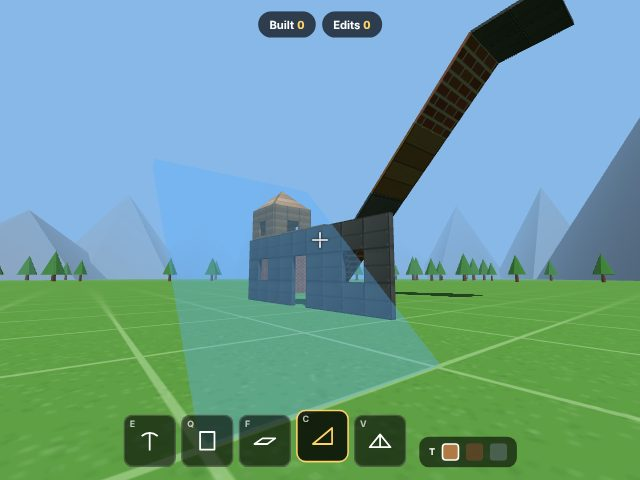
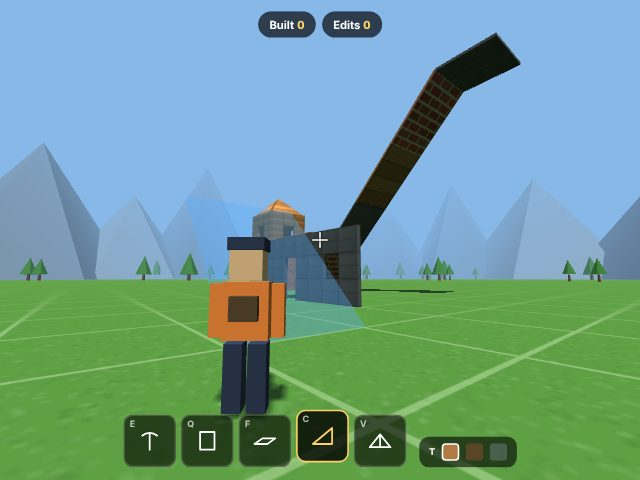
Build Rush: third-person camera, settings for sensitivity, FOV and keybinds
Claude-Session: https://claude.ai/code/session_01UAVtk7iSSEZ9gFYdBtuA74

diff --git a/games/build-rush/index.html b/games/build-rush/index.html
@@ -45,6 +45,16 @@
   .btn.ghost { background: #ffffff1c; color: #fff; }
   .big { font-size: 54px; font-weight: 800; margin: 8px 0; }
   #touchNote { color: #ff9f8a; margin-top: 14px; }
+  .set { display: grid; grid-template-columns: repeat(auto-fit, minmax(220px, 1fr)); gap: 12px 20px; text-align: left; margin: 10px 0 18px; }
+  .set label { display: flex; align-items: center; gap: 10px; color: #c8d0e6; white-space: nowrap; }
+  .set input[type=range] { flex: 1; accent-color: #ffd166; }
+  .set output { min-width: 38px; color: #ffd166; font-variant-numeric: tabular-nums; }
+  .set select { font: inherit; background: #ffffff1c; color: #fff; border: 0; border-radius: 8px; padding: 6px 8px; }
+  .set select option { color: #000; }
+  .box h3 { text-align: left; margin: 8px 0; } .box h3 small { color: #8a94b0; font-weight: 500; }
+  .binds { display: grid; grid-template-columns: repeat(auto-fill, minmax(200px, 1fr)); gap: 6px; margin-bottom: 14px; }
+  .bind { display: flex; justify-content: space-between; align-items: center; background: #ffffff10; border: 2px solid transparent; border-radius: 10px; padding: 8px 10px; color: #dde3f3; font: 600 13px Inter, sans-serif; cursor: pointer; }
+  .bind:hover { border-color: #ffffff40; } .bind.wait { border-color: #ffd166; } .bind kbd { min-width: 28px; text-align: center; }
 </style>
 </head>
 <body>
@@ -53,12 +63,12 @@
 <div id="hint"></div>
 <div id="flash"></div>
 <div id="hot">
-  <div class="slot" data-t="pick"><small>E</small><svg viewBox="0 0 32 32"><path d="M6 10 Q16 2 26 10 M16 7 V28"/></svg></div>
-  <div class="slot" data-t="wall"><small>Q</small><svg viewBox="0 0 32 32"><rect x="7" y="5" width="18" height="22"/></svg></div>
-  <div class="slot" data-t="floor"><small>F</small><svg viewBox="0 0 32 32"><path d="M3 20 L13 13 H29 L19 20 Z"/></svg></div>
-  <div class="slot" data-t="ramp"><small>C</small><svg viewBox="0 0 32 32"><path d="M4 26 H28 V6 Z"/></svg></div>
-  <div class="slot" data-t="cone"><small>V</small><svg viewBox="0 0 32 32"><path d="M3 24 L16 8 L29 24 Z M16 8 V24"/></svg></div>
-  <div id="mat"><small>T</small><i style="background:#b07a45"></i><i style="background:#b5523b"></i><i style="background:#8d99a8"></i></div>
+  <div class="slot" data-t="pick"><small data-a="pick">E</small><svg viewBox="0 0 32 32"><path d="M6 10 Q16 2 26 10 M16 7 V28"/></svg></div>
+  <div class="slot" data-t="wall"><small data-a="wall">Q</small><svg viewBox="0 0 32 32"><rect x="7" y="5" width="18" height="22"/></svg></div>
+  <div class="slot" data-t="floor"><small data-a="floor">F</small><svg viewBox="0 0 32 32"><path d="M3 20 L13 13 H29 L19 20 Z"/></svg></div>
+  <div class="slot" data-t="ramp"><small data-a="ramp">C</small><svg viewBox="0 0 32 32"><path d="M4 26 H28 V6 Z"/></svg></div>
+  <div class="slot" data-t="cone"><small data-a="cone">V</small><svg viewBox="0 0 32 32"><path d="M3 24 L16 8 L29 24 Z M16 8 V24"/></svg></div>
+  <div id="mat"><small data-a="mat">T</small><i style="background:#b07a45"></i><i style="background:#b5523b"></i><i style="background:#8d99a8"></i></div>
 </div>
 
 <div class="ov" id="menu"><div class="box">
@@ -69,20 +79,27 @@
     <button class="mode" data-m="climb"><b>🚀 Climb</b><span>Reach the ring 10 floors up. Ramp rush as fast as you can.</span><em id="bestClimb"></em></button>
     <button class="mode" data-m="drill"><b>✂ Edit Drill</b><span>Copy the glowing edit on your walls. 60 seconds.</span><em id="bestDrill"></em></button>
   </div>
-  <div class="keys">
-    <div><kbd>WASD</kbd>move <kbd>Space</kbd>jump <kbd>Shift</kbd>sprint</div>
-    <div><kbd>Q</kbd>wall <kbd>F</kbd>floor <kbd>C</kbd>ramp <kbd>V</kbd>cone</div>
-    <div><kbd>Click</kbd>build (hold to spam) <kbd>T</kbd>material</div>
-    <div><kbd>G</kbd>edit · drag tiles · release to confirm</div>
-    <div><kbd>Right-click</kbd>reset edit <kbd>E</kbd>pickaxe</div>
-    <div><kbd>Esc</kbd>pause / menu</div>
-  </div>
+  <div class="keys" id="keyList"></div>
+  <button class="btn ghost" id="openSet1" style="margin-top:16px">⚙ Settings</button>
   <div id="touchNote" hidden>Needs a keyboard and mouse.</div>
 </div></div>
 <div class="ov" id="pause" hidden><div class="box"><h1>Paused</h1><div class="sub" id="pauseSub"></div>
-  <button class="btn" id="resume">Resume</button><button class="btn ghost" id="restart">Restart</button><button class="btn ghost" id="toMenu">Menu</button></div></div>
+  <button class="btn" id="resume">Resume</button><button class="btn ghost" id="restart">Restart</button><button class="btn ghost" id="openSet2">⚙ Settings</button><button class="btn ghost" id="toMenu">Menu</button></div></div>
 <div class="ov" id="done" hidden><div class="box"><div class="sub" id="doneT"></div><div class="big" id="doneV"></div><div class="sub" id="doneS"></div>
   <button class="btn" id="again">Play again</button><button class="btn ghost" id="toMenu2">Menu</button></div></div>
+
+<div class="ov" id="settings" hidden><div class="box">
+  <h1 style="font-size:44px">Settings</h1>
+  <div class="set">
+    <label>Sensitivity <input type="range" id="sSens" min="0.1" max="3" step="0.05"><output id="oSens"></output></label>
+    <label>Field of view <input type="range" id="sFov" min="60" max="110" step="1"><output id="oFov"></output></label>
+    <label>Camera <select id="sCam"><option value="tp">Third person</option><option value="fp">First person</option></select></label>
+    <label><input type="checkbox" id="sInv"> Invert mouse Y</label>
+  </div>
+  <h3>Keybinds <small>click one, then press a key or mouse button 3–5 · Esc cancels</small></h3>
+  <div class="binds" id="binds"></div>
+  <button class="btn ghost" id="resetBinds">Reset keys</button><button class="btn" id="setDone">Done</button>
+</div></div>
 
 <script src="https://cdnjs.cloudflare.com/ajax/libs/three.js/r128/three.min.js"></script>
 <script>
@@ -199,6 +216,37 @@ function rebuild(p) { root.remove(p.mesh); p.boxes = boxesOf(p); p.mesh = buildM
 function removePiece(p) { root.remove(p.mesh); pieces.delete(p.key); }
 function clearAll() { for (const p of [...pieces.values()]) removePiece(p); }
 
+// ---------- settings & keybinds (saved in localStorage) ----------
+const ACTIONS = { forward: ["Move forward", "KeyW"], back: ["Move back", "KeyS"], left: ["Move left", "KeyA"], right: ["Move right", "KeyD"], jump: ["Jump", "Space"], sprint: ["Sprint", "ShiftLeft"],
+  wall: ["Wall", "KeyQ"], floor: ["Floor", "KeyF"], ramp: ["Ramp", "KeyC"], cone: ["Cone", "KeyV"], pick: ["Pickaxe", "KeyE"], edit: ["Edit", "KeyG"], mat: ["Material", "KeyT"], cam: ["Switch camera", "KeyP"] };
+const SET = { sens: 1, fov: 78, cam: "tp", inv: false, bind: {} };
+try { Object.assign(SET, JSON.parse(store("brSet") || "{}")); } catch {}
+const saveSet = () => store("brSet", JSON.stringify(SET));
+const bind = a => SET.bind[a] || ACTIONS[a][1];
+const held = a => !!keys[bind(a)];
+const keyName = c => ({ Space: "Space", ShiftLeft: "Shift", ShiftRight: "R-Shift", ControlLeft: "Ctrl", AltLeft: "Alt", Tab: "Tab", CapsLock: "Caps", Mouse1: "Mouse 3", Mouse3: "Mouse 4", Mouse4: "Mouse 5", ArrowUp: "↑", ArrowDown: "↓", ArrowLeft: "←", ArrowRight: "→" })[c] || c.replace(/^Key|^Digit|^Numpad/, "");
+let capturing = null, setFrom = "menu";
+function setBind(a, code) {
+  for (const k in ACTIONS) if (k !== a && bind(k) === code) SET.bind[k] = bind(a); // swap instead of leaving a duplicate
+  SET.bind[a] = code; saveSet(); labels();
+}
+function labels() {
+  const k = a => keyName(bind(a));
+  document.querySelectorAll("small[data-a]").forEach(e => e.textContent = k(e.dataset.a));
+  $("keyList").innerHTML = [`<kbd>${k("forward")}${k("left")}${k("back")}${k("right")}</kbd>move <kbd>${k("jump")}</kbd>jump <kbd>${k("sprint")}</kbd>sprint`,
+    `<kbd>${k("wall")}</kbd>wall <kbd>${k("floor")}</kbd>floor <kbd>${k("ramp")}</kbd>ramp <kbd>${k("cone")}</kbd>cone`,
+    `<kbd>Click</kbd>build (hold to spam) <kbd>${k("mat")}</kbd>material`, `<kbd>${k("edit")}</kbd>edit · drag tiles · release to confirm`,
+    `<kbd>Right-click</kbd>reset edit <kbd>${k("pick")}</kbd>pickaxe`, `<kbd>${k("cam")}</kbd>1st / 3rd person <kbd>Esc</kbd>pause`].map(x => `<div>${x}</div>`).join("");
+  $("binds").innerHTML = Object.entries(ACTIONS).map(([a, [n]]) => `<button class="bind ${capturing === a ? "wait" : ""}" data-a="${a}"><span>${n}</span><kbd>${capturing === a ? "…" : k(a)}</kbd></button>`).join("");
+  hint();
+}
+function applySet() {
+  camera.fov = SET.fov; camera.updateProjectionMatrix();
+  $("sSens").value = SET.sens; $("oSens").textContent = (+SET.sens).toFixed(2); $("sFov").value = SET.fov; $("oFov").textContent = SET.fov;
+  $("sCam").value = SET.cam; $("sInv").checked = SET.inv;
+}
+function openSettings(from) { setFrom = from; $(from).hidden = true; $("settings").hidden = false; applySet(); labels(); }
+
 // ---------- player ----------
 const P = { x: 2, y: 0, z: 2, vy: 0, yaw: -Math.PI / 2, pitch: 0, ground: true }, EYE = 1.6, HEAD = 1.75, R = .32;
 const keys = {};
@@ -225,11 +273,11 @@ function ceilingAt(x, y, z) {
   return c;
 }
 function physics(dt) {
-  const f = (keys.KeyW ? 1 : 0) - (keys.KeyS ? 1 : 0), s = (keys.KeyD ? 1 : 0) - (keys.KeyA ? 1 : 0);
-  const sp = keys.ShiftLeft || keys.ShiftRight ? 8.5 : 6, sy = Math.sin(P.yaw), cy = Math.cos(P.yaw);
+  const f = held("forward") - held("back"), s = held("right") - held("left");
+  const sp = held("sprint") ? 8.5 : 6, sy = Math.sin(P.yaw), cy = Math.cos(P.yaw);
   let mx = (-sy * f + cy * s), mz = (-cy * f - sy * s); const ml = Math.hypot(mx, mz) || 1;
   mx = mx / ml * sp * (f || s ? 1 : 0); mz = mz / ml * sp * (f || s ? 1 : 0);
-  if (keys.Space && P.ground) { P.vy = 8.2; P.ground = false; }
+  if (held("jump") && P.ground) { P.vy = 8.2; P.ground = false; }
   const steps = 4, h = dt / steps;
   for (let i = 0; i < steps; i++) {
     for (const [ax, d] of [["x", mx * h], ["z", mz * h]]) {
@@ -313,7 +361,7 @@ function tileSlots(p) { // [geometry, x, y, z, idx] in the piece's mesh space
   return [];
 }
 function startEdit() {
-  ray.setFromCamera(center, camera); ray.far = 7;
+  ray.setFromCamera(center, camera); ray.far = 7 + camDist;
   const hit = ray.intersectObjects(root.children.filter(o => o !== ghost && o !== drill?.mark), true)[0];
   const p = hit?.object.userData.piece;
   if (!p || p.kind === "cone") return;
@@ -326,7 +374,7 @@ function startEdit() {
   sfx(660, .05); hint();
 }
 function editHit() {
-  ray.setFromCamera(center, camera); ray.far = 9;
+  ray.setFromCamera(center, camera); ray.far = 9 + camDist;
   return ray.intersectObjects(editing.tiles)[0]?.object;
 }
 function paintTile() {
@@ -425,7 +473,7 @@ function finish(title, value, sub) {
 function modeTick(dt) {
   const top = [];
   if (mode === "climb") {
-    if (!running && (keys.KeyW || keys.KeyA || keys.KeyS || keys.KeyD)) running = true;
+    if (!running && (held("forward") || held("back") || held("left") || held("right"))) running = true;
     if (running) clock += dt;
     ring.children[0].rotation.y += dt * 1.5;
     top.push(`⏱ <b>${clock.toFixed(2)}s</b>`, `Height <b>${Math.floor(P.y / C)}</b>/10`);
@@ -444,8 +492,9 @@ function modeTick(dt) {
   if ($("top").innerHTML !== html) $("top").innerHTML = html;
 }
 function hint() {
-  $("hint").textContent = editing ? "EDIT · click/drag tiles · release to confirm · right-click reset · G cancel"
-    : mode === "drill" ? "Aim at the glowing wall, press G, drag over the glowing tiles" : mode === "climb" ? "Hold click with the ramp (C) and run forward. Walls (Q) help." : "";
+  const k = a => keyName(bind(a));
+  $("hint").textContent = editing ? `EDIT · click/drag tiles · release to confirm · right-click reset · ${k("edit")} cancel`
+    : mode === "drill" ? `Aim at the glowing wall, press ${k("edit")}, drag over the glowing tiles` : mode === "climb" ? `Hold click with the ramp (${k("ramp")}) and run forward. Walls (${k("wall")}) help.` : "";
 }
 function setTool(t) { tool = t; document.querySelectorAll(".slot").forEach(s => s.classList.toggle("on", s.dataset.t === t)); if (editing) endEdit(); sfx(440, .03); }
 function setMat(m) { mat = m; document.querySelectorAll("#mat i").forEach((e, i) => e.classList.toggle("on", i === m)); }
@@ -458,34 +507,49 @@ document.addEventListener("pointerlockchange", () => {
 });
 addEventListener("mousemove", e => {
   if (!locked()) return;
-  P.yaw -= e.movementX * .0022; P.pitch = Math.max(-1.5, Math.min(1.5, P.pitch - e.movementY * .0022));
+  const sens = .0022 * SET.sens; P.yaw -= e.movementX * sens; P.pitch = Math.max(-1.5, Math.min(1.5, P.pitch - e.movementY * sens * (SET.inv ? -1 : 1)));
   if (editing && holding) paintTile();
 });
 addEventListener("mousedown", e => {
   if (!locked()) return;
   if (e.button === 2) { if (editing) resetEdit(); return; }
-  if (e.button !== 0) return;
+  if (e.button !== 0) { keys["Mouse" + e.button] = true; return action("Mouse" + e.button); }
   holding = true;
   if (editing) { editing.paint = null; paintTile(); return; }
   if (tool === "pick") {
-    ray.setFromCamera(center, camera); ray.far = 6;
+    ray.setFromCamera(center, camera); ray.far = 6 + camDist;
     const p = ray.intersectObjects(root.children.filter(o => o !== ghost && o !== drill?.mark), true)[0]?.object.userData.piece;
     if (p && mode !== "drill") { removePiece(p); burst(p.mesh.position.x, p.mesh.position.y, p.mesh.position.z, MAT_COL[p.mat], 16); sfx(120, .12, "sawtooth", .06); lastGhostKey = ""; }
     return;
   }
   place();
 });
-addEventListener("mouseup", e => { if (e.button !== 0) return; holding = false; if (editing && editing.paint !== null) confirmEdit(); });
+addEventListener("mouseup", e => { if (e.button !== 0) return void (keys["Mouse" + e.button] = false); holding = false; if (editing && editing.paint !== null) confirmEdit(); });
 addEventListener("contextmenu", e => e.preventDefault());
+function action(code) {
+  for (const t of ["wall", "floor", "ramp", "cone", "pick"]) if (code === bind(t)) setTool(t);
+  if (code === bind("mat")) setMat((mat + 1) % 3);
+  if (code === bind("edit")) editing ? endEdit() : startEdit();
+  if (code === bind("cam")) { SET.cam = SET.cam === "tp" ? "fp" : "tp"; saveSet(); }
+}
 addEventListener("keydown", e => {
   keys[e.code] = true;
   if (!locked()) return;
-  const map = { KeyQ: "wall", KeyF: "floor", KeyC: "ramp", KeyV: "cone", KeyE: "pick" };
-  if (map[e.code]) setTool(map[e.code]);
-  if (e.code === "KeyT") setMat((mat + 1) % 3);
-  if (e.code === "KeyG") editing ? endEdit() : startEdit();
-  if (e.code === "Space") e.preventDefault();
+  action(e.code);
+  if (e.code === "Space" || e.code === "Tab") e.preventDefault();
 });
+// rebinding: capture phase so the game never sees the key being assigned
+addEventListener("keydown", e => { if (!capturing) return; e.preventDefault(); e.stopImmediatePropagation(); if (e.code !== "Escape") setBind(capturing, e.code); capturing = null; labels(); }, true);
+addEventListener("mousedown", e => { if (!capturing || ![1, 3, 4].includes(e.button)) return; e.preventDefault(); setBind(capturing, "Mouse" + e.button); capturing = null; labels(); }, true);
+$("binds").onclick = e => { const b = e.target.closest(".bind"); if (b) { capturing = b.dataset.a; labels(); } };
+$("resetBinds").onclick = () => { SET.bind = {}; saveSet(); labels(); };
+$("sSens").oninput = e => { SET.sens = +e.target.value; saveSet(); applySet(); };
+$("sFov").oninput = e => { SET.fov = +e.target.value; saveSet(); applySet(); };
+$("sCam").onchange = e => { SET.cam = e.target.value; saveSet(); };
+$("sInv").onchange = e => { SET.inv = e.target.checked; saveSet(); };
+$("openSet1").onclick = () => openSettings("menu");
+$("openSet2").onclick = () => openSettings("pause");
+$("setDone").onclick = () => { capturing = null; $("settings").hidden = true; $(setFrom).hidden = false; };
 addEventListener("keyup", e => keys[e.code] = false);
 addEventListener("blur", () => { for (const k in keys) keys[k] = false; holding = false; });
 document.querySelectorAll(".mode").forEach(b => b.onclick = () => startMode(b.dataset.m));
@@ -500,6 +564,45 @@ function showMenu() {
 }
 if (matchMedia("(pointer: coarse)").matches) $("touchNote").hidden = false;
 
+// ---------- third-person character ----------
+const hero = new THREE.Group(), limb = {};
+{
+  const part = (w, h, d, c, x, y, z, pivotY) => { // limbs hang from a pivot so they can swing
+    const piv = new THREE.Group(); piv.position.set(x, pivotY ?? y, z);
+    const m = new THREE.Mesh(new THREE.BoxGeometry(w, h, d), new THREE.MeshStandardMaterial({ color: c, roughness: .8 }));
+    m.position.y = pivotY !== undefined ? y - pivotY : 0; m.castShadow = true; piv.add(m); hero.add(piv); return piv;
+  };
+  part(.5, .62, .3, 0xff8a3d, 0, 1.12, 0);                       // jacket
+  part(.36, .36, .34, 0xf0c49a, 0, 1.62, 0);                     // head
+  part(.4, .14, .4, 0x2d3a5a, 0, 1.84, 0);                       // cap
+  part(.26, .06, .18, 0x2d3a5a, 0, 1.79, -.24);                  // cap brim (faces forward = -z)
+  part(.3, .26, .1, 0x5a4630, 0, 1.15, .2);                      // backpack
+  limb.ll = part(.2, .7, .22, 0x2d3a5a, -.13, .42, 0, .8); limb.rl = part(.2, .7, .22, 0x2d3a5a, .13, .42, 0, .8);
+  limb.la = part(.14, .58, .16, 0xff8a3d, -.34, 1.12, 0, 1.38); limb.ra = part(.14, .58, .16, 0xff8a3d, .34, 1.12, 0, 1.38);
+  scene.add(hero);
+}
+let camDist = 0;
+const camRay = new THREE.Raycaster();
+function placeCamera(moving) {
+  const pivot = new V3(P.x, P.y + 1.55, P.z);
+  if (SET.cam === "fp") { camDist = 0; camera.position.set(P.x, P.y + EYE + (moving ? Math.sin(bob) * .05 : 0), P.z); return; }
+  const dir = look(), right = new V3(Math.cos(P.yaw), 0, -Math.sin(P.yaw));
+  const want = pivot.clone().addScaledVector(dir, -3.4).addScaledVector(right, .8).add(new V3(0, .35, 0));
+  const off = want.clone().sub(pivot), full = off.length();
+  camRay.set(pivot, off.normalize()); camRay.far = full;
+  const hit = camRay.intersectObjects(root.children.filter(o => o !== ghost && o !== drill?.mark), true)[0];
+  const d = hit ? Math.max(.4, hit.distance - .25) : full; // pull in when a build is behind you
+  camera.position.copy(pivot).addScaledVector(off, d); camera.position.y = Math.max(.3, camera.position.y);
+  camDist = d;
+}
+function animateHero(moving, dt) {
+  hero.visible = SET.cam === "tp" && mode !== "menu";
+  hero.position.set(P.x, P.y, P.z); hero.rotation.y = P.yaw;
+  const sw = moving ? Math.sin(bob) * .7 : 0, air = P.ground ? 0 : .5;
+  limb.ll.rotation.x = sw + air; limb.rl.rotation.x = -sw + air * .3;
+  limb.la.rotation.x = -sw * .8 - (holding ? 1.2 : 0); limb.ra.rotation.x = sw * .8 - (holding || editing ? 1.3 : 0);
+}
+
 // ---------- loop ----------
 function resize() { renderer.setSize(innerWidth, innerHeight); camera.aspect = innerWidth / innerHeight; camera.updateProjectionMatrix(); }
 addEventListener("resize", resize); resize();
@@ -508,10 +611,10 @@ renderer.setAnimationLoop(now => {
   const dt = Math.min(.05, (now - last) / 1000); last = now;
   const playing = ["free", "climb", "drill"].includes(mode) && locked();
   if (playing) { physics(dt); modeTick(dt); }
-  const moving = playing && P.ground && (keys.KeyW || keys.KeyA || keys.KeyS || keys.KeyD);
+  const moving = playing && P.ground && (held("forward") || held("back") || held("left") || held("right"));
   bob += moving ? dt * 11 : 0;
-  camera.position.set(P.x, P.y + EYE + (moving ? Math.sin(bob) * .05 : 0), P.z);
   camera.rotation.set(P.pitch, P.yaw, 0, "YXZ");
+  placeCamera(moving); animateHero(moving, dt);
   if (mode === "menu") { P.yaw += dt * .08; camera.position.set(Math.sin(now / 9000) * 30, 14, Math.cos(now / 9000) * 30); camera.lookAt(0, 6, 0); }
   sun.position.set(camera.position.x + 30, 60, camera.position.z + 20); sun.target.position.set(camera.position.x, 0, camera.position.z);
   if (playing) {
@@ -533,7 +636,7 @@ function demoFort() {
   for (let n = 1; n <= 4; n++) addPiece({ kind: "ramp", i: n, j: n - 1, k: -1, dir: 0, mat: n % 3 }, false);
   addPiece({ kind: "floor", i: 5, j: 4, k: -1, mat: 2 }, false);
 }
-setTool("wall"); setMat(0); demoFort(); showMenu();
+setTool("wall"); setMat(0); demoFort(); applySet(); labels(); showMenu();
 
 // self-checks: tile boxes, ramp surface ends, wall edge mapping
 console.assert(boxesOf({ kind: "wall", axis: "x", i: 0, j: 0, k: 0, removed: new Set([4]) }).length === 8, "wall tiles");
